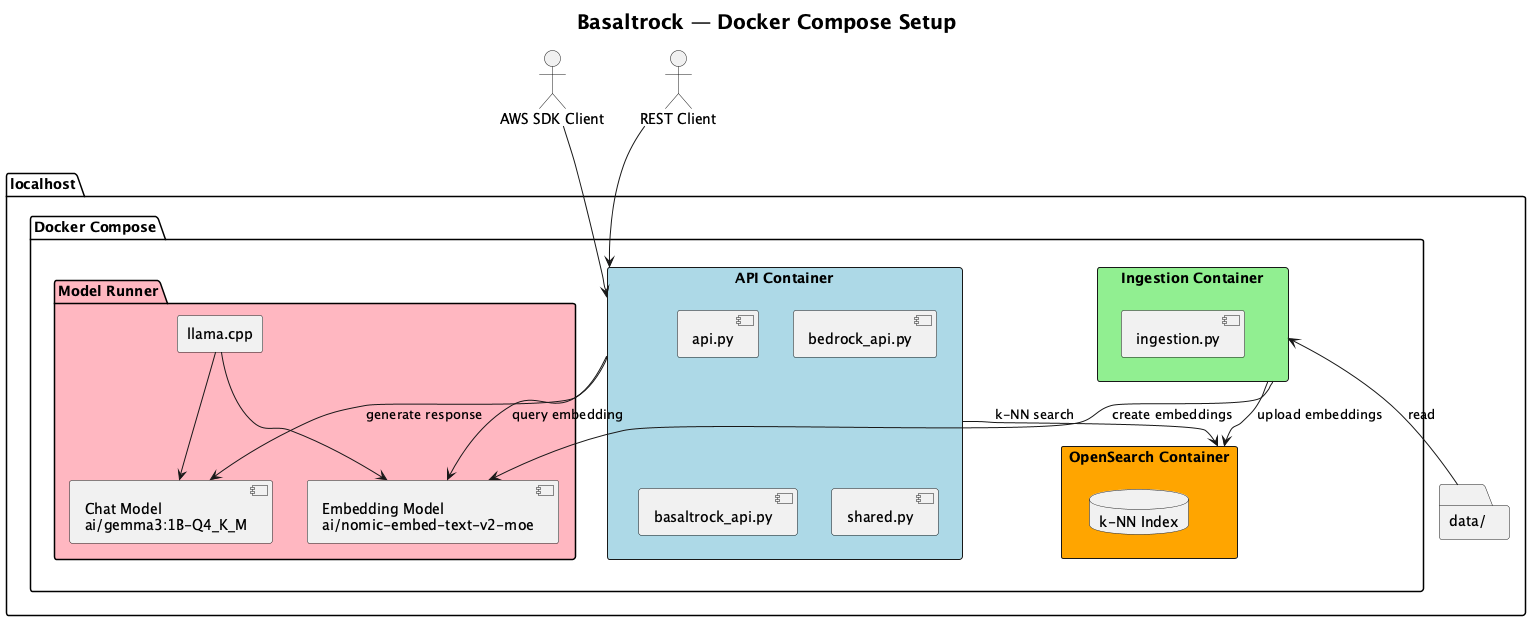
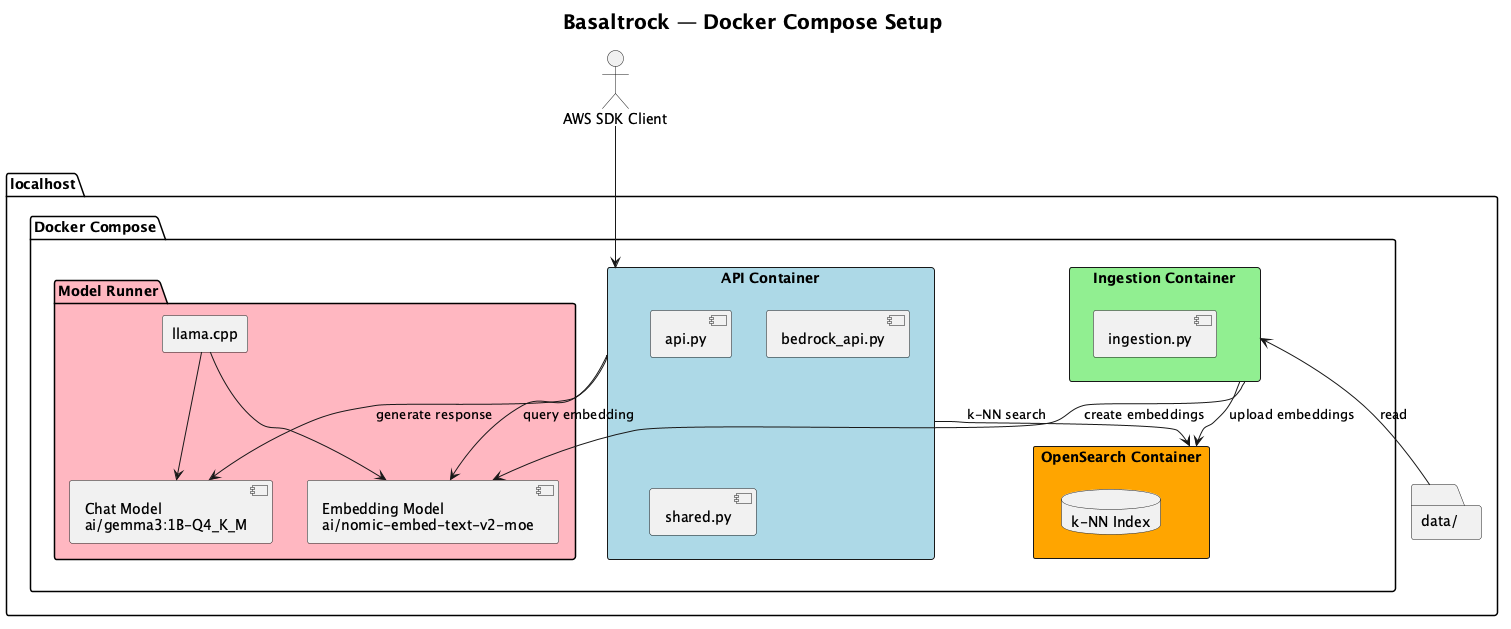
remove basaltrock api as redundant

diff --git a/src/main/resources/opensearch/docker/index.html b/src/main/resources/opensearch/docker/index.html
@@ -310,18 +310,33 @@
 
         try {
             const body = {
-                retrievalQuery: {text: question},
-                retrievalConfiguration: {
-                    vectorSearchConfiguration: {
-                        numberOfResults: parseInt(limit)
+                input: {text: question},
+                retrieveAndGenerateConfiguration: {
+                    type: "KNOWLEDGE_BASE",
+                    knowledgeBaseConfiguration: {
+                        knowledgeBaseId: "{{ kb_id }}",
+                        modelArn: "{{ model_id }}",
+                        retrievalConfiguration: {
+                            vectorSearchConfiguration: {
+                                numberOfResults: parseInt(limit)
+                            }
+                        },
+                        generationConfiguration: {
+                            inferenceConfig: {
+                                textInferenceConfig: {
+                                    temperature: parseFloat(temperature),
+                                    maxTokens: parseInt(maxtokens)
+                                }
+                            },
+                            promptTemplate: {
+                                textPromptTemplate: systemPrompt
+                            }
+                        }
                     }
-                },
-                temperature: parseFloat(temperature),
-                system: systemPrompt,
-                maxtokens: maxtokens
+                }
             };
 
-            const response = await fetch('/basaltrock/search/kb', {
+            const response = await fetch('/retrieveAndGenerate', {
                 method: 'POST',
                 headers: {'Content-Type': 'application/json'},
                 body: JSON.stringify(body)
@@ -333,18 +348,22 @@
 
             const data = await response.json();
 
-            answerDiv.textContent = data.answer || 'No answer generated';
+            answerDiv.textContent = data.output?.text || 'No answer generated';
 
             sourcesDiv.innerHTML = '';
-            if (data.sources && data.sources.length > 0) {
-                data.sources.forEach((source, index) => {
+            const citations = data.citations || [];
+            if (citations.length > 0) {
+                citations.forEach((citation) => {
+                    const ref = citation.retrievedReferences?.[0];
+                    if (!ref) return;
                     const sourceEl = document.createElement('div');
                     sourceEl.className = 'source-item';
+                    const score = ref.score ? ` | Score: ${(ref.score * 100).toFixed(1)}%` : '';
                     sourceEl.innerHTML = `
                             <div class="source-meta">
-                                <strong>${source.file}</strong> | Score: ${(source.score * 100).toFixed(1)}%
+                                <strong>${ref.location.s3Location.uri}</strong>${score}
                             </div>
-                            <div class="source-text">${escapeHtml(source.text)}</div>
+                            <div class="source-text">${escapeHtml(ref.content.text)}</div>
                         `;
                     sourcesDiv.appendChild(sourceEl);
                 });

diff --git a/src/main/resources/opensearch/docker/bedrock_api.py b/src/main/resources/opensearch/docker/bedrock_api.py
@@ -187,7 +187,7 @@ def _parse_kb_request(body: dict) -> tuple[str, str, int, dict]:
     }
 
 
-def _do_rag(query: str, num_results: int, gen_opts: dict) -> tuple[str, list, list]:
+def _do_rag(query: str, num_results: int, gen_opts: dict) -> tuple[list, list, dict]:
     hits = vector_search(query, num_results)
     citations = []
     context_parts = []
@@ -200,11 +200,15 @@ def _do_rag(query: str, num_results: int, gen_opts: dict) -> tuple[str, list, li
             "retrievedReferences": [{
                 "content": {"text": h["text"]},
                 "location": {"s3Location": {"uri": f"local://{h['file']}"}},
+                "score": score,
             }],
         })
     context = "\n\n".join(context_parts)
     tmpl = gen_opts["prompt_template"] or RAG_SYSTEM_PROMPT_TEMPLATE
-    system_prompt = tmpl.format(context=context) if "{context}" in tmpl else f"{tmpl}\n\nContext:\n{context}"
+    try:
+        system_prompt = tmpl.format(context=context) if "{context}" in tmpl else f"{tmpl}\n\nContext:\n{context}"
+    except (KeyError, ValueError):
+        system_prompt = f"{tmpl}\n\nContext:\n{context}"
     messages = [
         {"role": "system", "content": system_prompt},
         {"role": "user", "content": query},

diff --git a/src/main/resources/opensearch/docker/api.py b/src/main/resources/opensearch/docker/api.py
@@ -2,12 +2,10 @@
 
 from contextlib import asynccontextmanager
 from fastapi import FastAPI, Request
-from fastapi.responses import FileResponse
 from fastapi.templating import Jinja2Templates
 
-from basaltrock_api import router as basaltrock_router
 from bedrock_api import router as bedrock_router
-from shared import os_client, INDEX_NAME, RAG_SYSTEM_PROMPT_TEMPLATE, TEMPERATURE, MAX_TOKENS
+from shared import os_client, INDEX_NAME, RAG_SYSTEM_PROMPT_TEMPLATE, TEMPERATURE, MAX_TOKENS, EXPECTED_KB_ID, CHAT_MODEL
 
 
 @asynccontextmanager
@@ -23,7 +21,6 @@ app = FastAPI(lifespan=lifespan)
 templates = Jinja2Templates(directory="/app")
 
 app.include_router(bedrock_router)
-app.include_router(basaltrock_router)
 
 
 @app.get("/")
@@ -31,7 +28,7 @@ def index(request: Request):
     return templates.TemplateResponse(
         request=request,
         name="index.html",
-        context={"system_prompt": RAG_SYSTEM_PROMPT_TEMPLATE, "temperature": TEMPERATURE, "max_tokens": MAX_TOKENS},
+        context={"system_prompt": RAG_SYSTEM_PROMPT_TEMPLATE, "temperature": TEMPERATURE, "max_tokens": MAX_TOKENS, "kb_id": EXPECTED_KB_ID, "model_id": CHAT_MODEL},
     )
 
 

diff --git a/src/main/resources/opensearch/docker/ingestion.py b/src/main/resources/opensearch/docker/ingestion.py
@@ -78,7 +78,11 @@ def _load_chunks(folder: str) -> list[tuple[str, str]]:
         for f in sorted(pathlib.Path(folder).rglob(pattern)):
             if f.name.startswith("._"):
                 continue
-            text = _extract_text(f)
+            try:
+                text = _extract_text(f)
+            except Exception as e:
+                print(f"  {f.name}: SKIPPED ({e})")
+                continue
             chunk_texts = text_splitter.split_text(text)
             print(f"  {f.name}: {len(chunk_texts)} chunks")
             for chunk in chunk_texts:

diff --git a/src/test/resources/data/DOCKER_SETUP.md b/src/test/resources/data/DOCKER_SETUP.md
@@ -19,8 +19,7 @@ src/main/resources/opensearch/docker/
 ├── docker-compose.yml      # 3 services: opensearch, ingestion, api
 ├── api.py                  # FastAPI with OpenSearch client
 ├── shared.py               # OpenSearch k-NN queries
-├── bedrock_api.py          # AWS Bedrock endpoints
-├── basaltrock_api.py       # Simple GET endpoints
+├── bedrock_api.py          # AWS Bedrock-compatible endpoints
 └── ingestion.py                 # Uploads to OpenSearch
 ```
 
@@ -40,7 +39,7 @@ FROM python:3.12-slim AS ingestion
 ```dockerfile
 FROM python:3.13-slim AS api
 # Installs fastapi, hypercorn, openai
-# Copies api.py, shared.py, bedrock_api.py, basaltrock_api.py
+# Copies api.py, shared.py, bedrock_api.py
 # Exposes port 80
 ```
 
@@ -107,16 +106,15 @@ docker compose up -d
 
 ## API Endpoints
 
-The API service provides two types of endpoints:
+All endpoints are AWS Bedrock-compatible (work with the AWS SDK):
 
-### AWS Bedrock-Compatible API (for SDK testing)
-- **POST** `/model/{model_id}/invoke-with-response-stream` - Chat streaming with AWS event stream format
+- **POST** `/model/{model_id}/invoke` - Invoke model (sync)
+- **POST** `/model/{model_id}/invoke-with-response-stream` - Invoke model (streaming)
+- **POST** `/model/{model_id}/converse` - Converse API (sync)
+- **POST** `/model/{model_id}/converse-stream` - Converse API (streaming)
 - **POST** `/knowledgebases/{knowledge_base_id}/retrieve` - Knowledge base retrieval
-
-### Simple Basaltrock API (for curl testing)
-- **GET** `/basaltrock/chat?q=question` - Simple chat (no KB context)
-- **GET** `/basaltrock/search?q=query&limit=5` - Search knowledge base only
-- **GET** `/basaltrock/search/kb?q=question&limit=5` - RAG: search KB + answer with context
+- **POST** `/retrieveAndGenerate` - Retrieve and generate (RAG, sync)
+- **POST** `/retrieveAndGenerateStream` - Retrieve and generate (RAG, streaming)
 
 ### Health Check
 ```bash
@@ -133,14 +131,15 @@ curl http://localhost:80/health
 
 ### Example curl commands
 ```bash
-# Simple chat
-curl "http://localhost:80/basaltrock/chat?q=What+is+2+plus+2"
+# Retrieve from knowledge base
+curl -X POST http://localhost:80/knowledgebases/basaltrock-knowledge-base-id/retrieve \
+  -H "Content-Type: application/json" \
+  -d '{"retrievalQuery":{"text":"copyright"},"retrievalConfiguration":{"vectorSearchConfiguration":{"numberOfResults":3}}}'
 
-# Search knowledge base
-curl "http://localhost:80/basaltrock/search?q=copyright&limit=3"
-
-# RAG with context
-curl "http://localhost:80/basaltrock/search/kb?q=What+is+copyright&limit=5"
+# Retrieve and generate (RAG)
+curl -X POST http://localhost:80/retrieveAndGenerate \
+  -H "Content-Type: application/json" \
+  -d '{"input":{"text":"What is copyright?"},"retrieveAndGenerateConfiguration":{"type":"KNOWLEDGE_BASE","knowledgeBaseConfiguration":{"knowledgeBaseId":"basaltrock-knowledge-base-id","modelArn":"ai/gemma3:1B-Q4_K_M","retrievalConfiguration":{"vectorSearchConfiguration":{"numberOfResults":5}}}}}'
 ```
 
 ## Volumes

diff --git a/src/test/resources/data/GETTING_STARTED.md b/src/test/resources/data/GETTING_STARTED.md
@@ -37,17 +37,18 @@ RUN_DOCKER_LLM_MODEL_TEST=true ./gradlew test --info
 
 ### Testing with curl
 
-The service provides simple GET endpoints for quick testing (one needs to deploy docker manually):
+The service provides AWS Bedrock-compatible endpoints (one needs to deploy docker manually):
 
 ```bash
-# Simple chat
-curl "http://localhost:80/basaltrock/chat?q=What+is+machine+learning"
+# Retrieve from knowledge base
+curl -X POST http://localhost:80/knowledgebases/basaltrock-knowledge-base-id/retrieve \
+  -H "Content-Type: application/json" \
+  -d '{"retrievalQuery":{"text":"testcontainers"},"retrievalConfiguration":{"vectorSearchConfiguration":{"numberOfResults":5}}}'
 
-# Search knowledge base
-curl "http://localhost:80/basaltrock/search?q=testcontainers&limit=5"
-
-# RAG: search + answer with context
-curl "http://localhost:80/basaltrock/search/kb?q=How+do+I+use+testcontainers"
+# Retrieve and generate (RAG)
+curl -X POST http://localhost:80/retrieveAndGenerate \
+  -H "Content-Type: application/json" \
+  -d '{"input":{"text":"How do I use testcontainers?"},"retrieveAndGenerateConfiguration":{"type":"KNOWLEDGE_BASE","knowledgeBaseConfiguration":{"knowledgeBaseId":"basaltrock-knowledge-base-id","modelArn":"ai/gemma3:1B-Q4_K_M","retrievalConfiguration":{"vectorSearchConfiguration":{"numberOfResults":5}}}}}'
 ```
 
 ## Project Structure
@@ -133,8 +134,15 @@ The tests in this project:
 
 ### Test Examples Included
 
-1. **ChatStreamingTest**, **KnowledgeBaseRetrievalTest**: Complete example with Bedrock client demonstrating chat streaming and knowledge base retrieval
-2. **AwsBedrockUtils**: Helper class for creating AWS Bedrock clients
+1. **ChatStreamingTest**: Chat streaming with InvokeModelWithResponseStream
+2. **ConverseTest** / **ConverseStreamTest**: Converse API (sync and streaming)
+3. **InvokeModelTest**: Sync model invocation
+4. **KnowledgeBaseRetrievalTest**: Knowledge base vector search retrieval
+5. **RetrieveAndGenerateTest**: RAG with citations and generation config
+6. **RetrieveAndGenerateStreamTest**: Streaming RAG
+7. **DeterminismTest**: Temperature=0 deterministic output validation
+8. **ScoreFilteringTest**: Score-based relevance filtering
+9. **AwsBedrockUtils**: Helper class for creating AWS Bedrock clients
 
 ## Next Steps
 

diff --git a/src/test/resources/data/README.md b/src/test/resources/data/README.md
@@ -13,7 +13,6 @@ A local, Docker-based test container for mocking and testing AWS Bedrock API cal
 - ✅ **Testcontainers Integration**: JUnit 5 compatible containers for easy testing
 - ✅ **Docker Compose Support**: Orchestrate complex multi-container setups
 - ✅ **AWS Bedrock Compatibility**: Works with AWS SDK for Bedrock clients
-- ✅ **Simple REST API**: GET endpoints for curl-based testing
 - ✅ **OpenSearch Backend**: k-NN vector search with OpenSearch
 - ✅ **Latest Testcontainers**: Using Testcontainers 2.0.5
 - ✅ **Java 21+**: Modern Java support with Gradle 8.10.2
@@ -37,16 +36,20 @@ Then open **http://localhost:80**. See [DOCKER_SETUP.md](DOCKER_SETUP.md) for de
 RUN_DOCKER_LLM_MODEL_TEST=true ./gradlew test
 ```
 
-### Try the Simple API
+### Try the API
 ```bash
-# Simple chat
-curl "http://localhost:80/basaltrock/chat?q=What+is+2+plus+2"
+# Health check
+curl http://localhost:80/health
 
-# Search knowledge base
-curl "http://localhost:80/basaltrock/search?q=copyright"
+# Retrieve from knowledge base
+curl -X POST http://localhost:80/knowledgebases/basaltrock-knowledge-base-id/retrieve \
+  -H "Content-Type: application/json" \
+  -d '{"retrievalQuery":{"text":"copyright"},"retrievalConfiguration":{"vectorSearchConfiguration":{"numberOfResults":3}}}'
 
-# RAG with context
-curl "http://localhost:80/basaltrock/search/kb?q=What+is+copyright"
+# Retrieve and generate (RAG)
+curl -X POST http://localhost:80/retrieveAndGenerate \
+  -H "Content-Type: application/json" \
+  -d '{"input":{"text":"What is copyright?"},"retrieveAndGenerateConfiguration":{"type":"KNOWLEDGE_BASE","knowledgeBaseConfiguration":{"knowledgeBaseId":"basaltrock-knowledge-base-id","modelArn":"ai/gemma3:1B-Q4_K_M","retrievalConfiguration":{"vectorSearchConfiguration":{"numberOfResults":5}}}}}'
 ```
 
 ## Project Structure